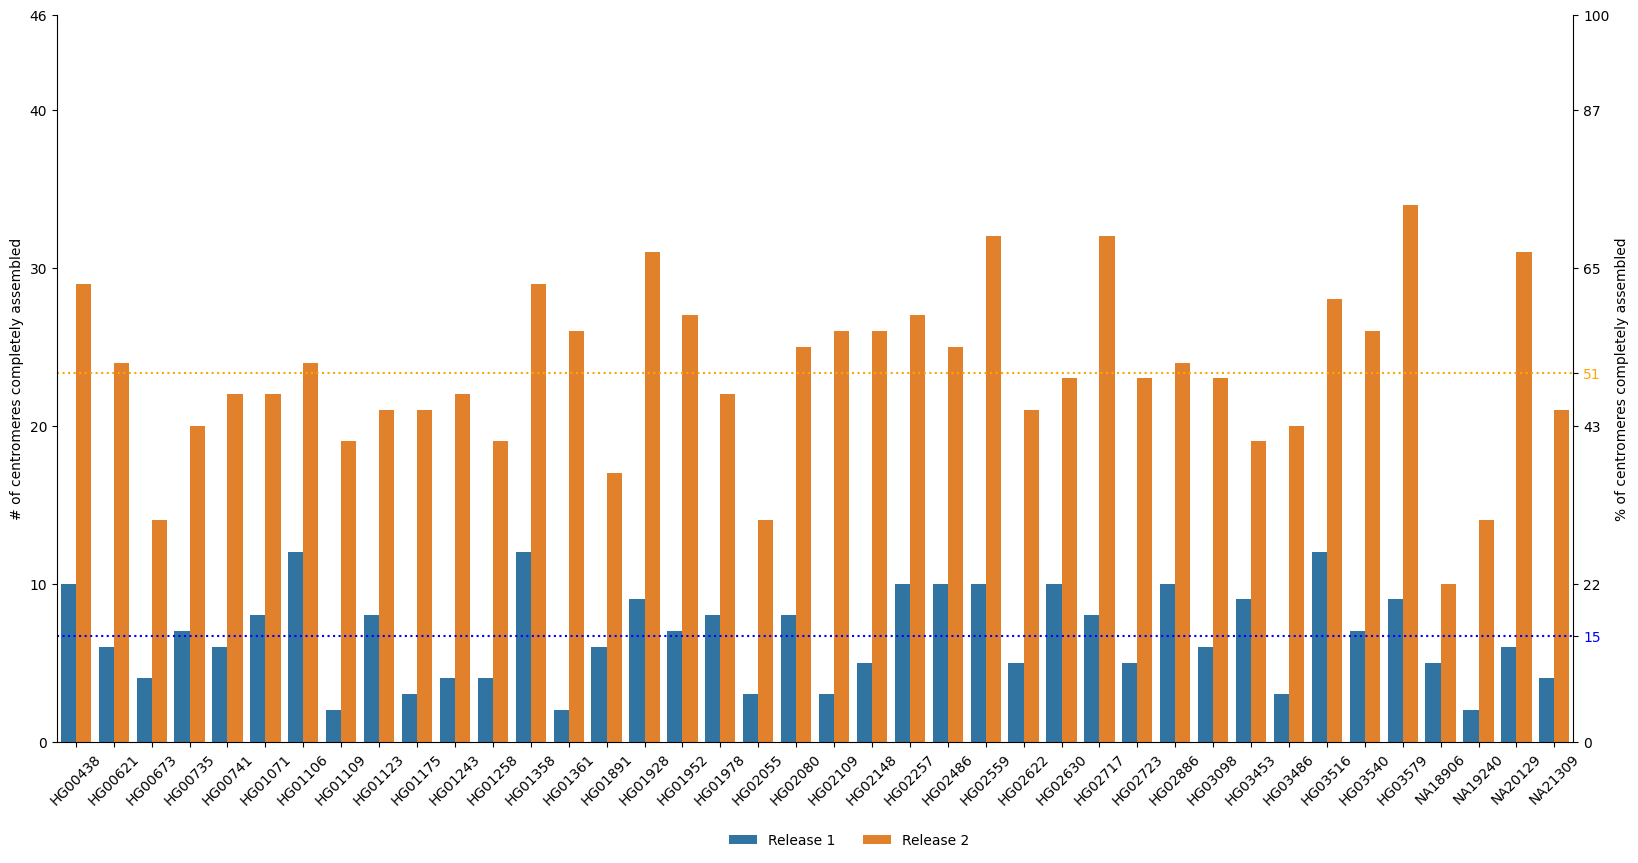
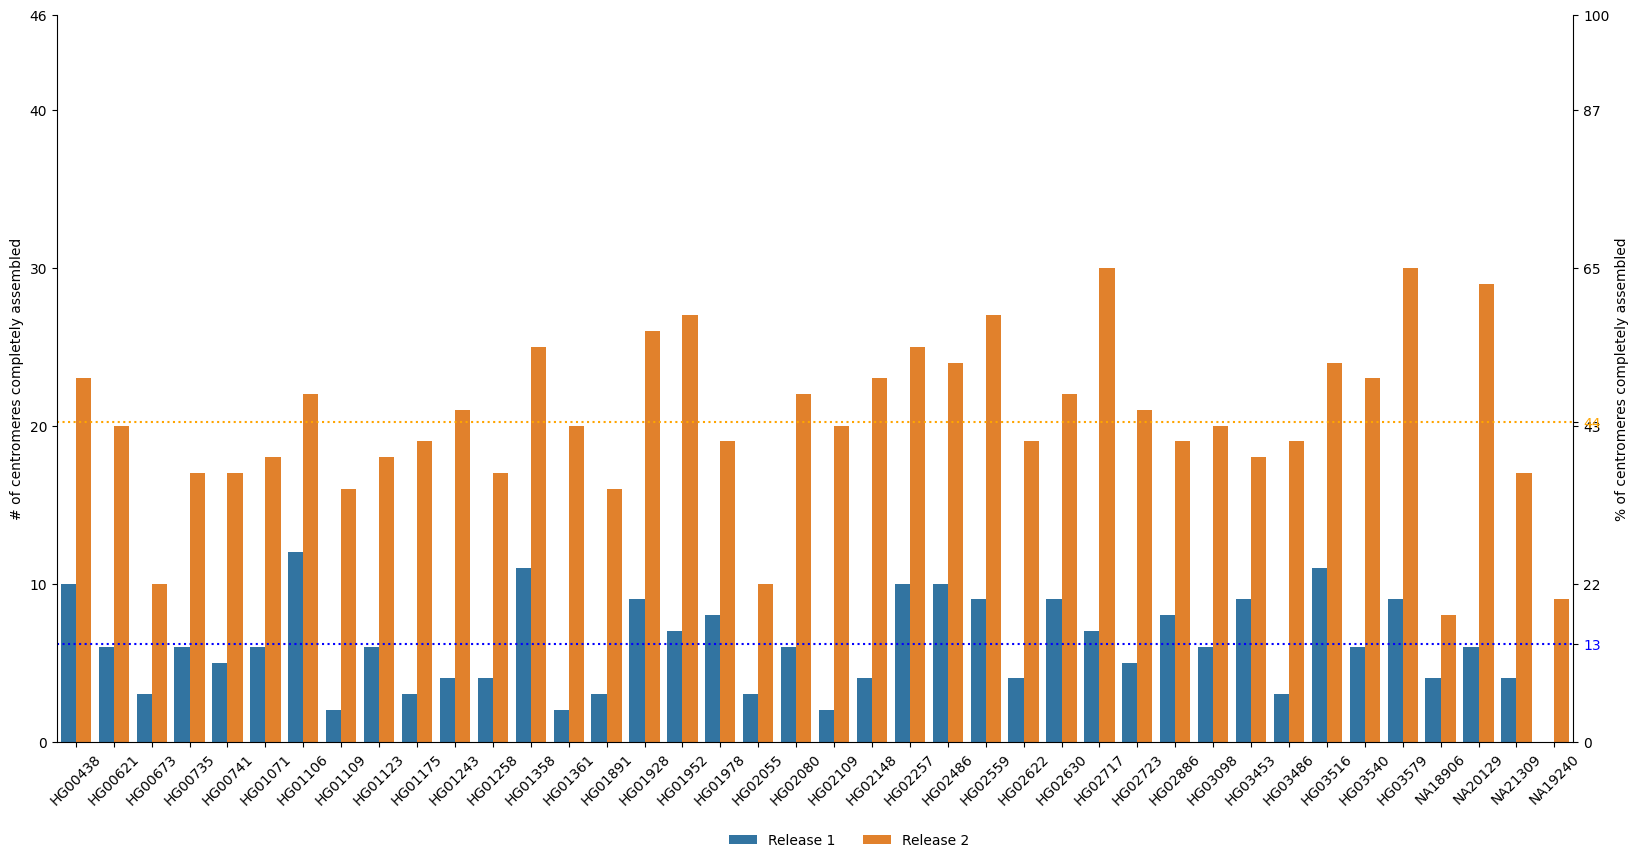
Fix including small arrays. Use total length for array length.

diff --git a/scripts/nucflag/filter_arrays.py b/scripts/nucflag/filter_arrays.py
@@ -3,13 +3,20 @@ import argparse
 import polars as pl
 
 EXP_COLS = (
-    "chrom", "st", "end",
-    "ochrom", "ost", "oend", "olen", "ohor", "operc",
+    "chrom",
+    "st",
+    "end",
+    "ochrom",
+    "ost",
+    "oend",
+    "olen",
+    "ohor",
+    "operc",
     "nchrom",
 )
-OUT_COLS = (
-    "ochrom", "ost", "oend", "olen", "ohor", "operc"
-)
+OUT_COLS = ("ochrom", "ost", "oend", "olen", "ohor", "operc")
+
+
 def main():
     ap = argparse.ArgumentParser()
     ap.add_argument("infile")
@@ -20,14 +27,18 @@ def main():
         separator="\t",
         has_header=False,
         columns=range(len(EXP_COLS)),
-        new_columns=EXP_COLS
+        new_columns=EXP_COLS,
     )
-    for _, df_grp in df.group_by(["nchrom"]):
+    # Use ochrom since nchrom can be .
+    for _, df_grp in df.group_by(["ochrom"]):
         nchroms = df_grp["nchrom"].unique()
         # Has an error in one or more arrays. Remove completely.
         if any(chrom != "." for chrom in nchroms):
             continue
-        df_grp.select(OUT_COLS).write_csv(sys.stdout, separator="\t", include_header=False)
+        df_grp.select(OUT_COLS).write_csv(
+            sys.stdout, separator="\t", include_header=False
+        )
+
 
 if __name__ == "__main__":
     raise SystemExit(main())

diff --git a/scripts/live_arrays/plot_hor_length.py b/scripts/live_arrays/plot_hor_length.py
@@ -302,13 +302,20 @@ def main():
         new_xtick_labels.append(txt)
 
     # Add line and ytick for mean length
-    mean_length_r1 = df_all_lengths.filter(pl.col("release") == "Release 1")["length"].mean()
-    mean_length_r2 = df_all_lengths.filter(pl.col("release") == "Release 2")["length"].mean()
+    mean_length_r1 = df_all_lengths.filter(pl.col("release") == "Release 1")[
+        "length"
+    ].mean()
+    mean_length_r2 = df_all_lengths.filter(pl.col("release") == "Release 2")[
+        "length"
+    ].mean()
     mean_length_r1_label = str(round(mean_length_r1 / 1_000_000, 1))
     mean_length_r2_label = str(round(mean_length_r2 / 1_000_000, 1))
     ax.axhline(mean_length_r1, linestyle="dotted", color="blue")
     ax.axhline(mean_length_r2, linestyle="dotted", color="orange")
-    ax.set_yticks([*yticks, mean_length_r1, mean_length_r2], [*new_xtick_labels, mean_length_r1_label, mean_length_r2_label])
+    ax.set_yticks(
+        [*yticks, mean_length_r1, mean_length_r2],
+        [*new_xtick_labels, mean_length_r1_label, mean_length_r2_label],
+    )
 
     yticklabels = ax.get_yticklabels()
     for i, color in [(-2, "blue"), (-1, "orange")]:

diff --git a/scripts/complete_counts/count_complete_cens.py b/scripts/complete_counts/count_complete_cens.py
@@ -44,7 +44,9 @@ def get_df_counts(
 
 
 def filter_R1(df: pl.DataFrame) -> pl.DataFrame:
-    return df.filter(~(pl.col("chrom_name").str.contains("chr3"))).filter(pl.col("sample") != "HG03492")
+    return df.filter(~(pl.col("chrom_name").str.contains("chr3"))).filter(
+        pl.col("sample") != "HG03492"
+    )
 
 
 def filter_R2(df: pl.DataFrame) -> pl.DataFrame:
@@ -139,6 +141,7 @@ def main():
             df_b.with_columns(release=pl.lit("Release 2")),
         ]
     )
+    print(df_all.group_by(["release"]).agg(pl.col("len").sum()))
 
     g = sns.catplot(
         data=df_all,

diff --git a/README.md b/README.md
@@ -83,7 +83,8 @@ python scripts/complete_counts/count_complete_cens.py \
 python scripts/live_arrays/plot_hor_length.py \
 -a /project/logsdon_shared/projects/HPRC/CenMAP-R1vR2/results/R1/results/R1/final/bed/all_AS-HOR_lengths.bed \
 -b /project/logsdon_shared/projects/HPRC/CenMAP-R1vR2/results/R2/results/R2/final/bed/all_AS-HOR_lengths.bed \
--o figures/hor_array_length_complete_centromeres.png
+-o figures/hor_array_length_complete_centromeres.png \
+--mode total
 ```
 
 ### And accurate centromeres
@@ -91,7 +92,8 @@ python scripts/live_arrays/plot_hor_length.py \
 python scripts/live_arrays/plot_hor_length.py \
 -a /project/logsdon_shared/projects/HPRC/CenMAP-R1vR2/exp/data/R1_centromeres/all_AS-HOR_lengths.bed \
 -b /project/logsdon_shared/projects/HPRC/CenMAP-R1vR2/exp/data/R2_centromeres/all_AS-HOR_lengths.bed \
--o figures/hor_array_length_complete_and_accurate_centromeres.png
+-o figures/hor_array_length_complete_and_accurate_centromeres.png \
+--mode total
 ```
 
 Manual changes:
